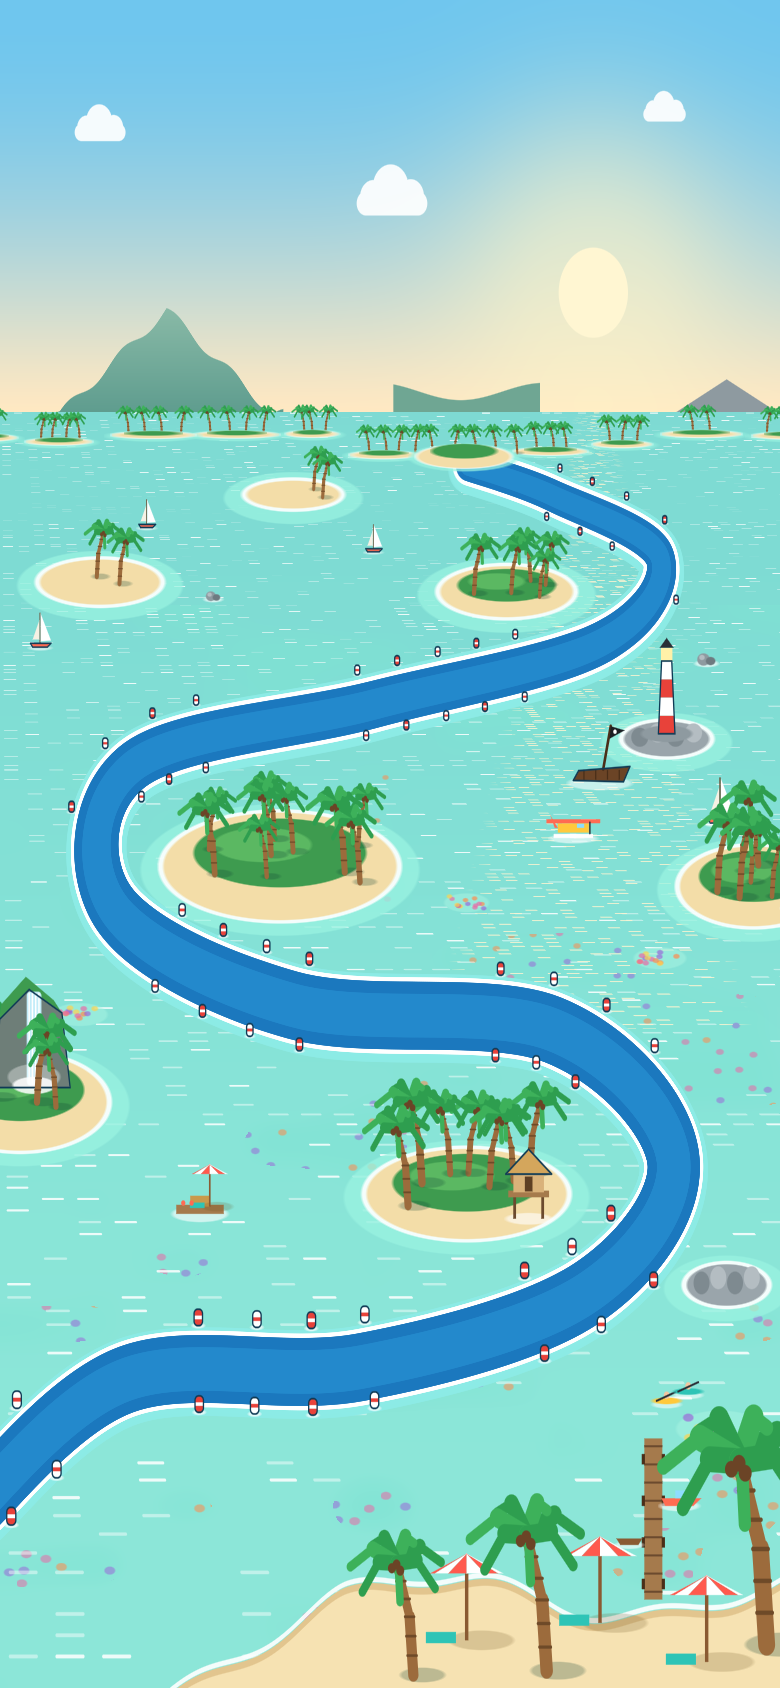
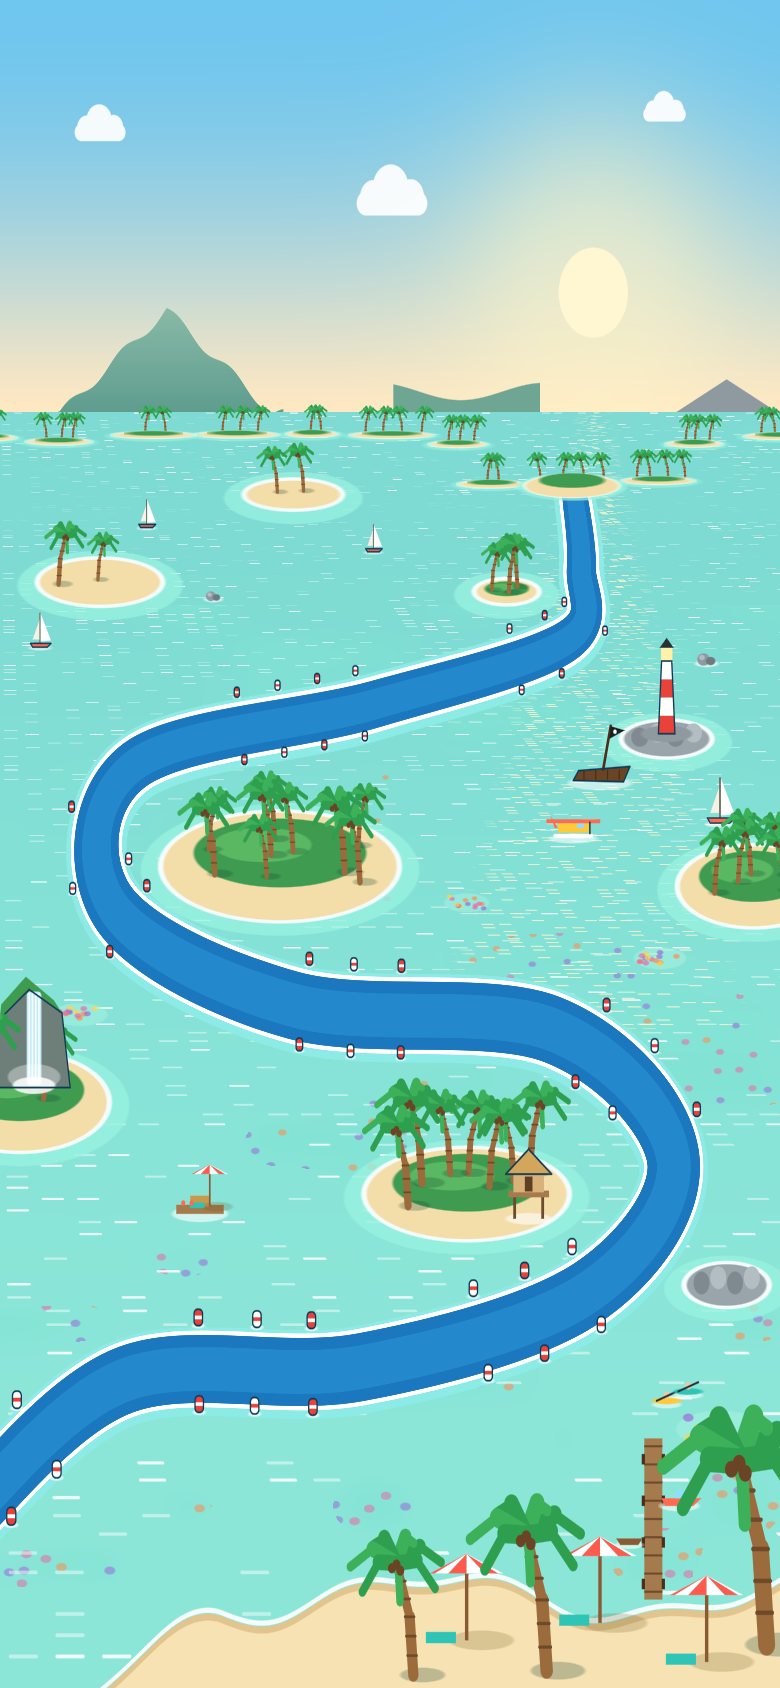
Water Cup map: the beach reaches further left along the bottom; after the last bend the lane goes straight up to race 8 (no bump at race 7), race 8 a little lower

diff --git a/Assets/Scripts/UI/MapLayout.cs b/Assets/Scripts/UI/MapLayout.cs
@@ -120,8 +120,8 @@ namespace SomeGame.UI
         /// <summary>The sea lane: buoys from the beach at the bottom out round the islands to the far reef.</summary>
         public static readonly MapRoad Water = new(new Vector2[]
         {
-            new(-40f, 270f), new(190f, 463f), new(540f, 481f), new(880f, 592f), new(1010f, 794f), new(830f, 987f), new(440f, 1024f), new(170f, 1171f), new(200f, 1383f), new(560f, 1475f), new(900f, 1567f), new(990f, 1696f), new(830f, 1788f), new(700f, 1834f),
-        }, 1, 13, 8); // (race 8 at its end, among the palm atolls on the horizon)
+            new(-40f, 270f), new(190f, 463f), new(540f, 481f), new(880f, 592f), new(1010f, 794f), new(830f, 987f), new(440f, 1024f), new(170f, 1171f), new(200f, 1383f), new(560f, 1475f), new(850f, 1570f), new(872f, 1680f), new(862f, 1790f),
+        }, 1, 12, 8); // (race 8 at its end, among the palm atolls on the horizon)
 
         public static MapRoad Of(CupLook look) => look switch { CupLook.Winter => Winter, CupLook.Water => Water, _ => Valley };
 

diff --git a/Assets/Scripts/Editor/MapArtGenerator.Water.cs b/Assets/Scripts/Editor/MapArtGenerator.Water.cs
@@ -151,7 +151,7 @@ namespace SomeGame.EditorTools
             }
             // The beach along the bottom right (the lane comes in over open water on the left): wet sand, a foam
             // line, dry sand; the shore curves away out of the picture to the left.
-            float shore = y - (110f + 24f * Mathf.Sin(x / 95f + 1f) + 10f * Mathf.Sin(x / 37f) - Mathf.Pow(Mathf.Max(0f, 520f - x) / 520f, 1.6f) * 300f);
+            float shore = y - (110f + 24f * Mathf.Sin(x / 95f + 1f) + 10f * Mathf.Sin(x / 37f) - Mathf.Pow(Mathf.Max(0f, 330f - x) / 330f, 1.6f) * 300f);
             sea = Over(sea, Hex("E2C58E"), Cov(shore + 8f));
             sea = Over(sea, Color.white, Cov(Mathf.Abs(shore + 4f) - 3f) * 0.9f);
             sea = Over(sea, Hex("F6E2B2"), Cov(shore + 16f));
